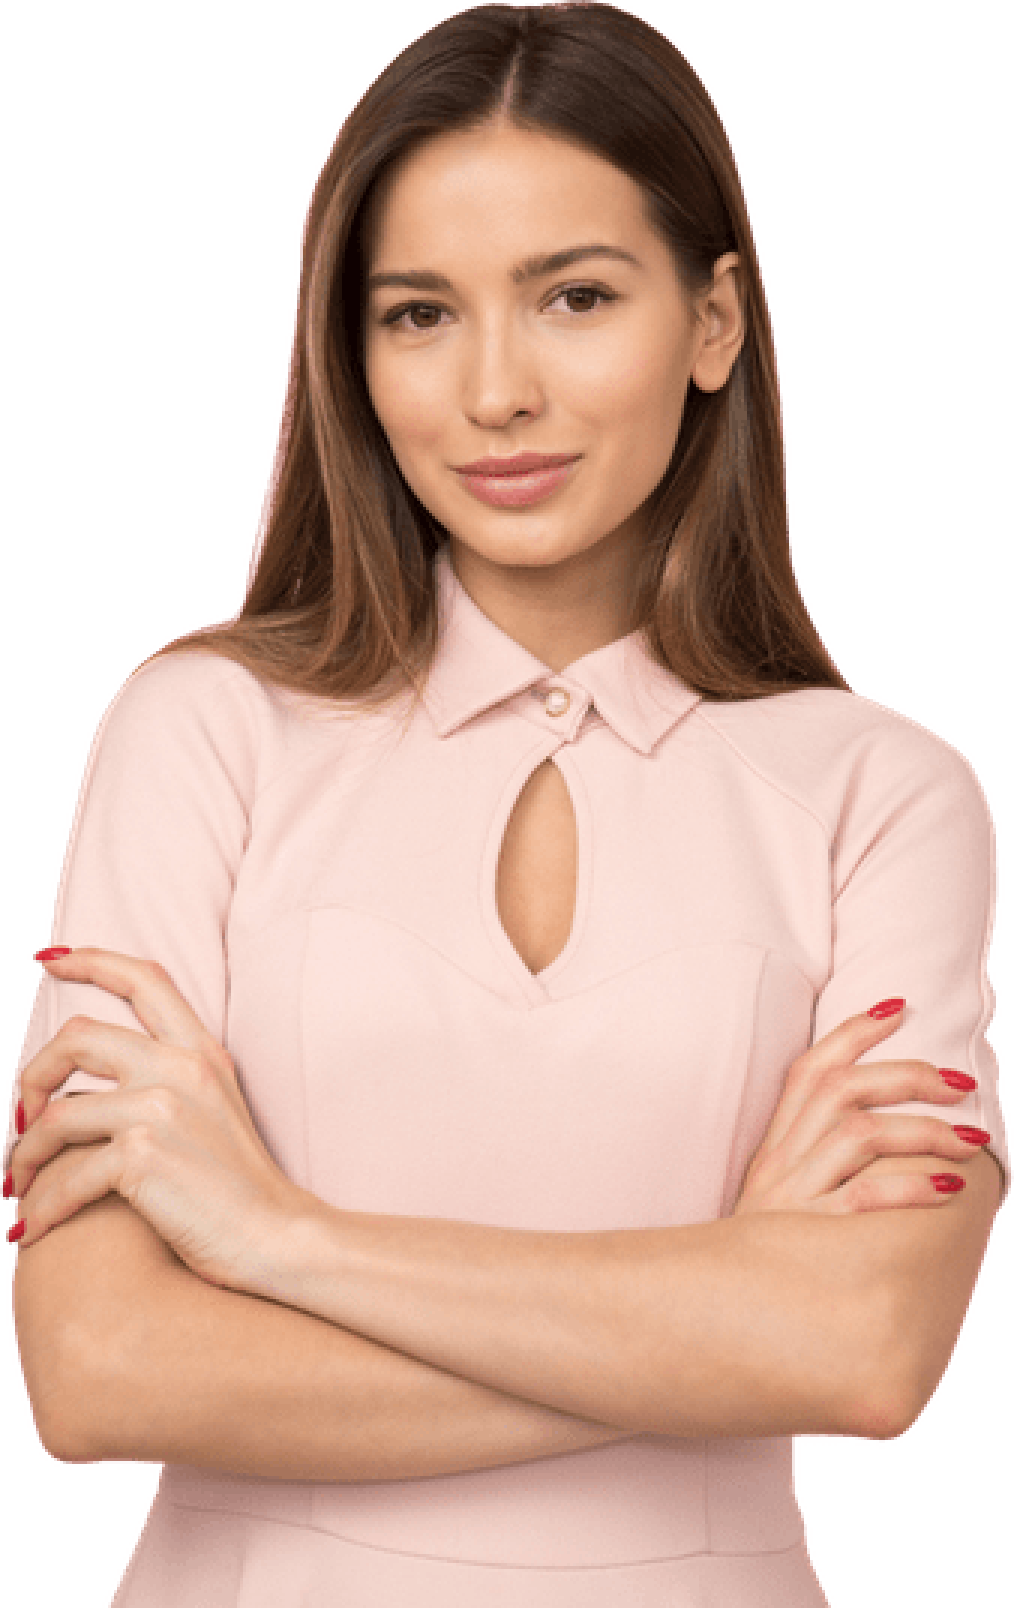
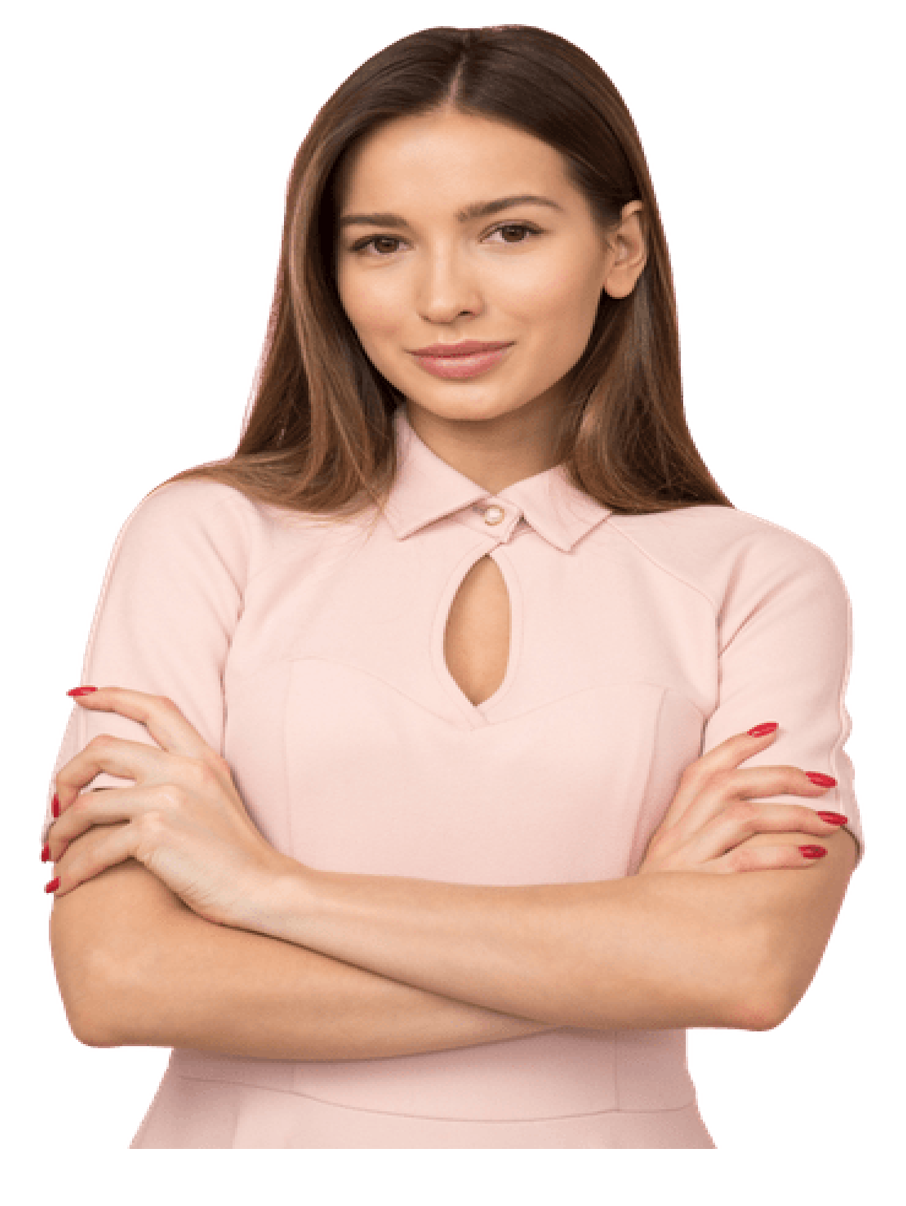
finis

diff --git a/index.html b/index.html
@@ -5,8 +5,92 @@
     <meta http-equiv="X-UA-Compatible" content="IE=edge">
     <meta name="viewport" content="width=device-width, initial-scale=1.0">
     <title>Document</title>
+    <link rel="stylesheet" href="style.css">
+    <link rel="preconnect" href="https://fonts.googleapis.com">
+<link rel="preconnect" href="https://fonts.gstatic.com" crossorigin>
+<link href="https://fonts.googleapis.com/css2?family=Poppins&display=swap" rel="stylesheet">
 </head>
 <body>
-    
+    <section id="frist">
+        <div class="header article">
+          <h1><span id="m">Skip</span> <span id="ma">The Diet,<br> Just Eat Healthy <br>With Food Network
+          </span></h1>
+            <p>Imagine you don't need a diet because we provide<br>
+               healthy and delicious food for you!</p><br>
+               <a class="button" href="">Order Food</a>
+        </div>
+        <div class="header img">
+            <img src="images/1.png" alt="">
+        </div>
+    </section>
+
+   <section id="second">
+       <div class="middle">
+     <img src="images/Person Image.png" alt="person">
+       </div>
+       <div class="middle about">
+   <h1><span id="about">About Me</span></h1>
+   <p>Lorem ipsum dolor sit amet, consectetur adipiscing
+    elit. Condimentum diam orci pretium a pharetra,
+    feugiat cursus. Dictumst risus, sem egestas odio cras
+    adipiscing vulputate. Nisi, risus in suscipit non. Non
+    commodo volutpat, pharetra, vel.</p><br>
+    <a href="" class="button">Contact Me</a>
+       </div>
+   </section>
+   <section id="third">
+    <div id="recipie">
+        <h1> <b>My Recipies</b>
+        </h1>
+        <p>When you need to feed the family or kids, these are the easy dinner recipes you turn to time and time again. With lots of healthy, quick, vegetarian, chicken, and budget-friendly ideas, there’s something for everyone.
+        </p>
+    </div>
+
+
+    <div class="recipies">
+        <img src="images/11.jpg" height="180px" width="270px" alt="">
+        <h2>Recipie Title</h2>
+        <p>Lorem ipsum dolor sit amet,
+            consectetur adipiscing elit. Lacus,
+            fermentum amet faucibus sed id nisi
+            lectus at.</p>
+    </div>
+    <div class="recipies">
+        <img src="images/12.jpg" height="180px" width="270px" alt="">
+        <h2>Recipie Title</h2>
+        <p>Lorem ipsum dolor sit amet,
+            consectetur adipiscing elit. Lacus,
+            fermentum amet faucibus sed id nisi
+            lectus at.</p>
+    </div>
+    <div class="recipies">
+        <img src="images/13.png" height="180px" width="270px" alt="">
+        <h2>Recipie Title</h2>
+        <p>Lorem ipsum dolor sit amet,
+            consectetur adipiscing elit. Lacus,
+            fermentum amet faucibus sed id nisi
+            lectus at.</p>
+    </div>
+
+    <div class="subscriber">
+        <div class="sub-div">
+            <h1>500k</h1>
+            <p>Youtube Subscriber</p>
+        </div>
+        <div class="sub-div">
+            <h1>700k</h1>
+            <p>Instagram Followers</p>
+        </div>
+        <div class="sub-div">
+            <h1>500m</h1>
+            <p>Dribbble Shot Likes</p>
+        </div>
+    </div>
+</section>
+<footer>
+    <h2><span class="f1">FOOD</span> <span class="f2">NETWORK</span></h2>
+    <p>Eat healthy to live healthy. Live healthy to live happy.</p>
+</footer>
+  
 </body>
 </html>

diff --git a/style.css b/style.css
@@ -1,0 +1,124 @@
+body{
+    font-family: 'Poppins', sans-serif;
+}
+
+#m{
+    color: tomato;
+}
+.button{
+    padding: 10px 25px;
+    background-image: linear-gradient(#fb934a, #fe4f30);
+    border-radius: 20px;
+    text-decoration: none;
+    color: white;
+    box-shadow: 3px 3px 10px gray;
+}
+.header{
+    float: left;
+    width: 40%;
+    margin-left:6%;
+}
+h1{
+    font-size: 50px;
+}
+.header img{
+    width: 100%;
+}
+.article{
+    padding-right: 30px;
+    margin-top: 85px;
+}
+.middle{
+    margin-left: 6%;
+    width:40%;
+    float: left;
+    margin-top: 40px;
+}
+.middle img{
+    width: 70%;
+}
+.about{
+    padding: 30px;
+}
+#about{
+    color: #707070;
+}
+#ma{
+    color: #575757;
+}
+#second{
+    float: left;
+    margin-top: 120px;
+    background-image: url("images/7.png");
+    background-repeat: no-repeat;
+    background-position: right;
+}
+.recipies{
+    width: 20%;
+    float: left;
+    margin-left: 6%;
+    padding: 30px;
+    box-shadow: 2px 2px 20px gray;
+    border-radius: 20px;
+    margin-top: 80px;
+}
+
+.recipies img{
+    width: 100%;
+}    
+
+
+#recipie {
+    text-align: center;
+    font-size: 15px;
+}
+
+#recipie p {
+    margin: 0px 350px;
+}
+
+
+
+.subscriber {
+    background-color: whitesmoke solid;
+    border-radius: 20px;
+    box-shadow: 5px 5px 15px rgb(197, 195, 195);
+    margin-top: 600px;
+    display: flex;
+    margin-left: 6%;
+    margin-right: 6%;
+
+}
+
+.sub-div {
+    text-align: center;
+    margin-left: 15%;
+    padding-bottom: 10px;
+}
+
+.subscriber h1 {
+    color: black;
+    font-size: 50px;
+}
+
+#third{
+    padding-bottom: 100px;
+
+
+}
+
+
+footer{
+    text-align: center;
+    background-color:#0b0e17;
+    color: white;
+    padding-top: 10px;
+    padding-bottom: 30px;
+    margin-top: 10px;
+}
+.f1{
+    color: #fa994c;
+}
+.f2{
+    color: #5b5b5b;
+}
